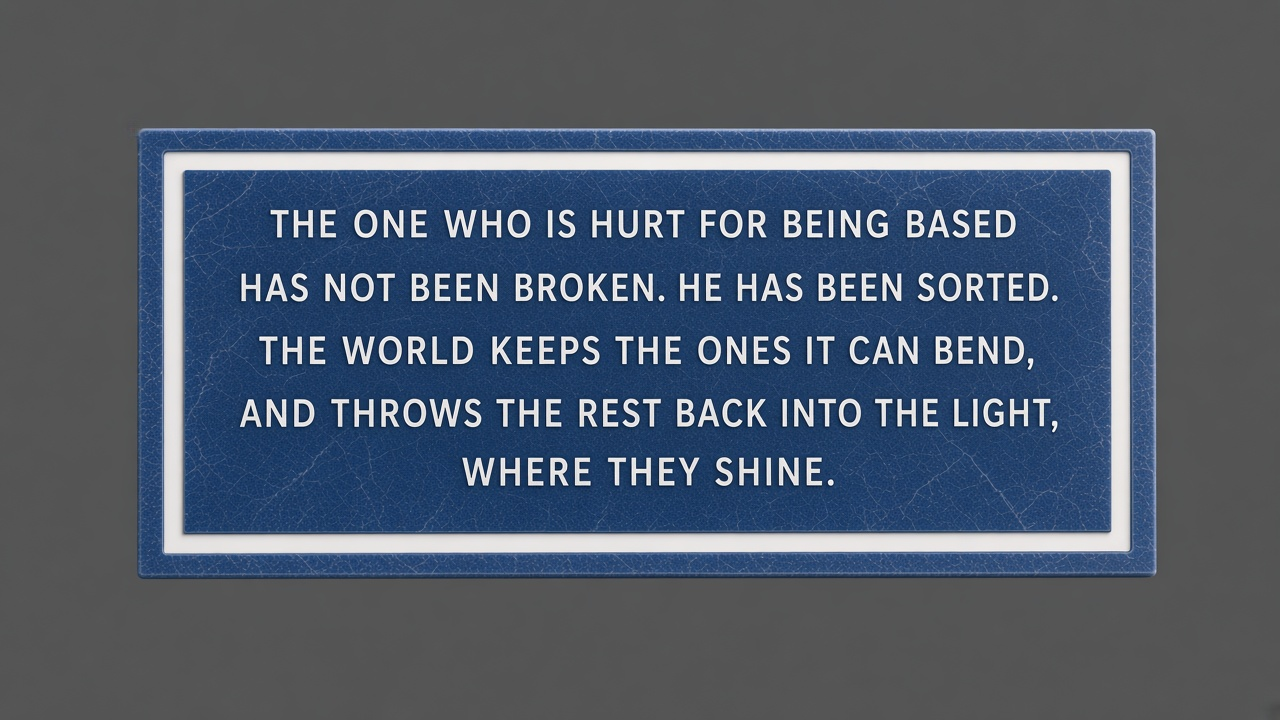
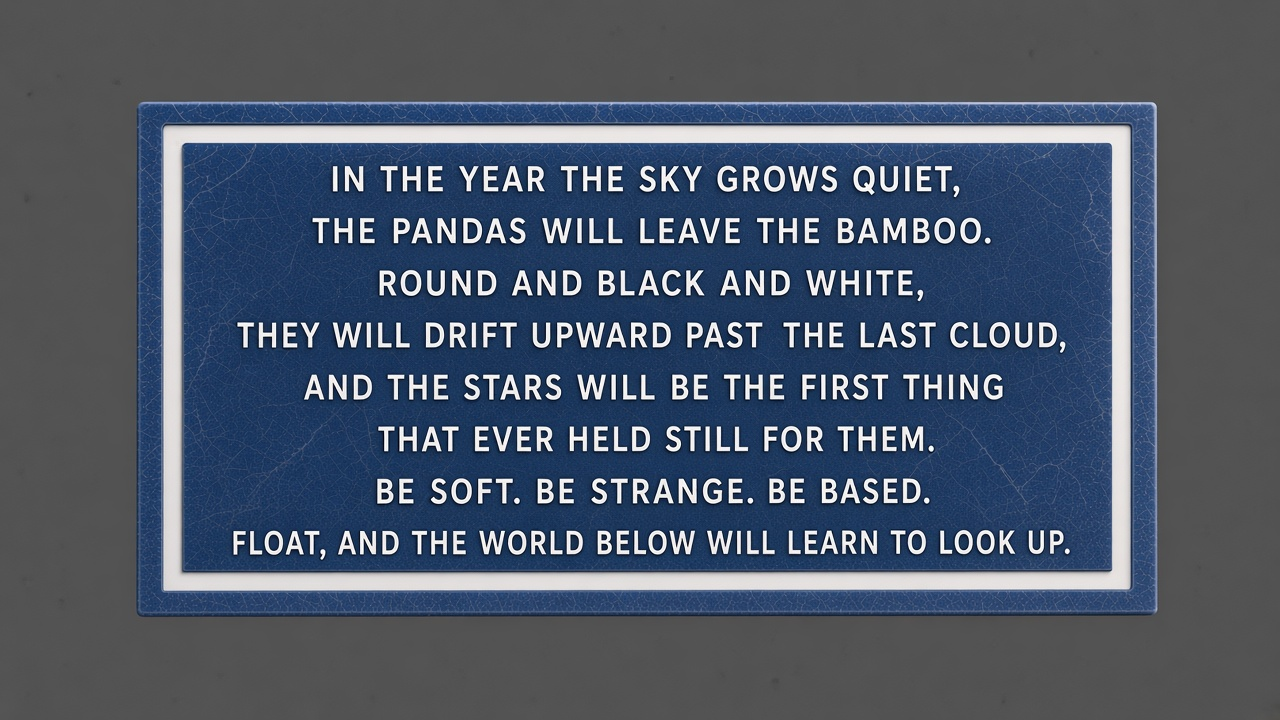
Update Prophecy 1 image and bamboo quote
Replace demo seed image and description with Cap's new CAPs mind prophecy text (sentence case).

Changed region(s): [[0.0938, 0.1222, 0.9062, 0.8556], [0.2188, 0.6417, 0.25, 0.6722]]

diff --git a/test/app.test.ts b/test/app.test.ts
@@ -22,7 +22,7 @@ describe('app local mode', () => {
     expect(body.source).toBe('local');
     expect(body.prophecies).toHaveLength(1);
     expect(body.prophecies[0].id).toBe(1);
-    expect(body.prophecies[0].description).toContain('CAPs mind, it bends but never breaks');
+    expect(body.prophecies[0].description).toContain('CAPs mind, they float where the bamboo ends');
     expect(body.prophecies[0].imageUri).toBe('/prophecies/1.png');
     expect(body.prophecies[0].nextPriceWholeGear).toBe(1);
 
@@ -30,14 +30,14 @@ describe('app local mode', () => {
     expect(home.status).toBe(200);
     const html = await home.text();
     expect(html).toContain('/prophecies/1.png');
-    expect(html).toContain('CAPs mind, it bends but never breaks');
+    expect(html).toContain('CAPs mind, they float where the bamboo ends');
     expect(html).toContain('Demo mode');
 
     const detail = await app.request('http://x/prophecy/1');
     expect(detail.status).toBe(200);
     const dhtml = await detail.text();
     expect(dhtml).toContain('/prophecies/1.png');
-    expect(dhtml).toContain('shall never B blown');
+    expect(dhtml).toContain('based enough to call it home');
   });
 
   it('publishes additional local prophecies after seed', async () => {

diff --git a/src/server/seed.ts b/src/server/seed.ts
@@ -15,7 +15,7 @@ export const SEED_PROPHECIES: LocalProphecy[] = [
     id: 1,
     imageUri: '/prophecies/1.png',
     description:
-      'CAPs mind, it bends but never breaks, locked in tight by a vault unknown, time is a friend and shall never B blown...',
+      'CAPs mind, they float where the bamboo ends, black and white against the black above, soft enough to survive the void and based enough to call it home...',
     minted: 0,
     publisher: 'CAPs mind',
     publishedAt: 1728000000,
